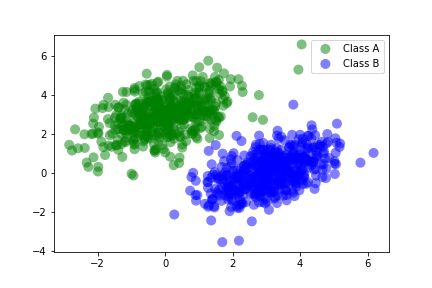
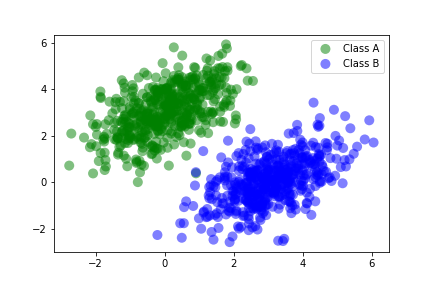
Add section: Generating synthetic data

diff --git a/deep_learning_python/ch3/index.html b/deep_learning_python/ch3/index.html
@@ -19,7 +19,7 @@
   </center>
 
   <br>
-  <p style="margin-bottom: 2ch;text-align: right;font-style: italic;">May 19, 2022</p>
+  <p style="margin-bottom: 2ch;text-align: right;font-style: italic;">May 20, 2022</p>
 
 <p><title>Deep Learning with Python: Chapter 3 - Introduction to Keras and TensorFlow</title></p>
 
@@ -31,25 +31,40 @@
 Articles in this series will sequentially review key concepts, examples, and interesting facts from each chapter of the book.</p>
 
 <p><details>
-    <summary>Table of Contents</summary>
-- <a href="#chapter-3-introduction-to-keras-and-tensorflow">Chapter 3: Introduction to Keras and TensorFlow</a>
-    - <a href="#whats-tensorflow">What's TensorFlow?</a>
-        - <a href="#tensorflow-vs-numpy">TensorFlow vs. NumPy</a>
-        - <a href="#tensorflow-ecosystem">TensorFlow ecosystem</a>
-    - <a href="#whats-keras">What's Keras?</a>
-        - <a href="#keras-and-tensorflow-a-brief-history">Keras and TensorFlow: A brief history</a>
-    - <a href="#setting-up-a-deep-learning-workspace">Setting up a deep learning workspace</a>
-        - <a href="#physical-machine-with-nvidia-gpu">Physical machine with NVIDIA GPU</a>
-        - <a href="#cloud-gpu-instances">Cloud GPU instances</a>
-        - <a href="#google-colab">Google Colab</a>
-    - <a href="#first-steps-with-tensorflow">First steps with TensorFlow</a>
-        - <a href="#constant-tensors-and-variables">Constant tensors and variables</a>
-        - <a href="#a-second-look-at-the-gradient-tape-api">A second look at the Gradient Tape API</a>
-        - <a href="#computing-second-order-gradients">Computing second-order gradients</a>
-    - <a href="#linear-classifier-example-in-pure-tensorflow">Linear classifier example in pure TensorFlow</a>
-        - <a href="#what-is-linear-classification">What is linear classification?</a>
-        - <a href="#generating-synthetic-data">Generating synthetic data</a>
-</details></p>
+    <summary>Table of Contents</summary></p>
+
+<ul>
+<li><a href="#chapter-3-introduction-to-keras-and-tensorflow">Chapter 3: Introduction to Keras and TensorFlow</a>
+<ul>
+<li><a href="#whats-tensorflow">What's TensorFlow?</a>
+<ul>
+<li><a href="#tensorflow-vs-numpy">TensorFlow vs. NumPy</a></li>
+<li><a href="#tensorflow-ecosystem">TensorFlow ecosystem</a></li>
+</ul></li>
+<li><a href="#whats-keras">What's Keras?</a>
+<ul>
+<li><a href="#keras-and-tensorflow-a-brief-history">Keras and TensorFlow: A brief history</a></li>
+</ul></li>
+<li><a href="#setting-up-a-deep-learning-workspace">Setting up a deep learning workspace</a>
+<ul>
+<li><a href="#physical-machine-with-nvidia-gpu">Physical machine with NVIDIA GPU</a></li>
+<li><a href="#cloud-gpu-instances">Cloud GPU instances</a></li>
+<li><a href="#google-colab">Google Colab</a></li>
+</ul></li>
+<li><a href="#first-steps-with-tensorflow">First steps with TensorFlow</a>
+<ul>
+<li><a href="#constant-tensors-and-variables">Constant tensors and variables</a></li>
+<li><a href="#a-second-look-at-the-gradient-tape-api">A second look at the Gradient Tape API</a></li>
+<li><a href="#computing-second-order-gradients">Computing second-order gradients</a></li>
+</ul></li>
+<li><a href="#linear-classifier-example-in-pure-tensorflow">Linear classifier example in pure TensorFlow</a>
+<ul>
+<li><a href="#what-is-linear-classification">What is linear classification?</a></li>
+<li><a href="#generating-synthetic-data">Generating synthetic data</a>
+</details></li>
+</ul></li>
+</ul></li>
+</ul>
 
 <hr />
 
@@ -370,13 +385,15 @@ The line is best fit to separate the data into two classes.</p>
 <p><font style="color:red">TODO: Insert image of a linear classification plot with a line separating the classes</font></p>
 
 <p>This is the basic idea behind linear classification.
-Now let's generate some data and train a linear classifier.</p>
+Now let's generate some data and train a linear classifier.
+All of the code related to this linear classifier can be found on my <a href="https://github.com/nosas/blog/blob/main/deep_learning_python/ch3/code/linear_classifier.py">GitHub</a> as an interactive python file.
+I recommend using VSCode to utilize the interactive python code blocks - similar to Jupyter Notebooks.</p>
 
 <h3 id="generating-synthetic-data">Generating synthetic data</h3>
 
 <p>We need some nicely linear data to train our linear classifier.
 To keep it simple, we'll create two classes of points in a 2D plane and call them class A and class B.
-To keep it more simple, we won't explain all the math behind the data generation - just understand that both classes should be shaped like a cloud and clearly separated.
+To keep it more simple, we won't explain all the math behind the data generation - just understand that both classes should be clearly separated and roughly distributed like a cloud.
 We'll just use the following formula to generate the data:</p>
 
 <div class="codehilite"><pre><span></span><code><span class="n">num_samples_per_class</span> <span class="o">=</span> <span class="mi">500</span>
@@ -390,12 +407,57 @@ We'll just use the following formula to generate the data:</p>
     <span class="n">size</span><span class="o">=</span><span class="n">num_samples_per_class</span><span class="p">)</span>
 </code></pre></div>
 
-<p>The figure below shows the linear data distribution of both classes A and B.</p>
+<p>The figure below shows the linearly-separable data from classes A and B.
+See the following code block to see how we plot the data.</p>
 
 <figure class="center">
     <img src="img/linear_classifier_data.png" style="width:100%;background:white;"/>
     <figcaption>Two classes of synthetic and random points in the 2D plane</figcaption>
 </figure>
+
+<p>Both samples are arrays of shape <code>(500, 2)</code> - meaning there are 500 rows of 2-dimensional data (x and y coordinate points).
+Let's stack both class samples into a single array with shape <code>(1000, 2)</code>.
+Stacking the samples into single array will allow for easier processing later on, such as plotting the data.</p>
+
+<div class="codehilite"><pre><span></span><code><span class="kn">import</span> <span class="nn">matplotlib.pyplot</span> <span class="k">as</span> <span class="nn">plt</span>
+<span class="kn">import</span> <span class="nn">numpy</span> <span class="k">as</span> <span class="nn">np</span>
+
+<span class="c1"># The first 500 samples are from class A, the next 500 samples are from class B</span>
+<span class="n">inputs</span> <span class="o">=</span> <span class="n">np</span><span class="o">.</span><span class="n">vstack</span><span class="p">((</span><span class="n">class_a_samples</span><span class="p">,</span> <span class="n">class_b_samples</span><span class="p">))</span><span class="o">.</span><span class="n">astype</span><span class="p">(</span><span class="n">np</span><span class="o">.</span><span class="n">float32</span><span class="p">)</span>
+<span class="c1"># The first 500 labels are 0 (class A), and the next 500 are 1 (class B)</span>
+<span class="n">labels</span> <span class="o">=</span> <span class="n">np</span><span class="o">.</span><span class="n">vstack</span><span class="p">(</span>
+    <span class="p">(</span>
+        <span class="n">np</span><span class="o">.</span><span class="n">zeros</span><span class="p">((</span><span class="n">num_samples_per_class</span><span class="p">,</span> <span class="mi">1</span><span class="p">),</span> <span class="n">dtype</span><span class="o">=</span><span class="n">np</span><span class="o">.</span><span class="n">float32</span><span class="p">),</span>
+        <span class="n">np</span><span class="o">.</span><span class="n">ones</span><span class="p">((</span><span class="n">num_samples_per_class</span><span class="p">,</span> <span class="mi">1</span><span class="p">),</span> <span class="n">dtype</span><span class="o">=</span><span class="n">np</span><span class="o">.</span><span class="n">float32</span><span class="p">),</span>
+    <span class="p">)</span>
+<span class="p">)</span>
+<span class="n">class_a</span> <span class="o">=</span> <span class="n">inputs</span><span class="p">[:</span><span class="n">num_samples_per_class</span><span class="p">]</span>
+<span class="n">class_b</span> <span class="o">=</span> <span class="n">inputs</span><span class="p">[</span><span class="n">num_samples_per_class</span><span class="p">:]</span>
+
+<span class="c1"># %% Plot the two classes</span>
+<span class="c1"># Class A is represented by green dots, and class B is represented by blue dots,</span>
+<span class="n">plt</span><span class="o">.</span><span class="n">scatter</span><span class="p">(</span>
+    <span class="n">class_a</span><span class="p">[:,</span> <span class="mi">0</span><span class="p">],</span>
+    <span class="n">class_a</span><span class="p">[:,</span> <span class="mi">1</span><span class="p">],</span>
+    <span class="n">c</span><span class="o">=</span><span class="s2">&quot;green&quot;</span><span class="p">,</span>
+    <span class="n">alpha</span><span class="o">=</span><span class="mf">0.50</span><span class="p">,</span>
+    <span class="n">s</span><span class="o">=</span><span class="mi">100</span><span class="p">,</span>
+    <span class="n">label</span><span class="o">=</span><span class="s2">&quot;Class A&quot;</span><span class="p">,</span>
+    <span class="n">edgecolors</span><span class="o">=</span><span class="s2">&quot;none&quot;</span><span class="p">,</span>
+<span class="p">)</span>
+<span class="n">plt</span><span class="o">.</span><span class="n">scatter</span><span class="p">(</span>
+    <span class="n">class_b</span><span class="p">[:,</span> <span class="mi">0</span><span class="p">],</span>
+    <span class="n">class_b</span><span class="p">[:,</span> <span class="mi">1</span><span class="p">],</span>
+    <span class="n">c</span><span class="o">=</span><span class="s2">&quot;blue&quot;</span><span class="p">,</span>
+    <span class="n">alpha</span><span class="o">=</span><span class="mf">0.50</span><span class="p">,</span>
+    <span class="n">s</span><span class="o">=</span><span class="mi">100</span><span class="p">,</span>
+    <span class="n">label</span><span class="o">=</span><span class="s2">&quot;Class B&quot;</span><span class="p">,</span>
+    <span class="n">edgecolors</span><span class="o">=</span><span class="s2">&quot;none&quot;</span><span class="p">,</span>
+<span class="p">)</span>
+<span class="n">plt</span><span class="o">.</span><span class="n">legend</span><span class="p">()</span>
+<span class="n">plt</span><span class="o">.</span><span class="n">savefig</span><span class="p">(</span><span class="s2">&quot;../img/linear_classifier_data.png&quot;</span><span class="p">,</span> <span class="n">transparent</span><span class="o">=</span><span class="kc">False</span><span class="p">)</span>
+<span class="n">plt</span><span class="o">.</span><span class="n">show</span><span class="p">()</span>
+</code></pre></div>
 
 </body>
 </html>

diff --git a/deep_learning_python/ch3/article.md b/deep_learning_python/ch3/article.md
@@ -10,6 +10,7 @@ Articles in this series will sequentially review key concepts, examples, and int
 
 <details>
     <summary>Table of Contents</summary>
+
 - [Chapter 3: Introduction to Keras and TensorFlow](#chapter-3-introduction-to-keras-and-tensorflow)
     - [What's TensorFlow?](#whats-tensorflow)
         - [TensorFlow vs. NumPy](#tensorflow-vs-numpy)
@@ -339,12 +340,14 @@ The line is best fit to separate the data into two classes.
 
 This is the basic idea behind linear classification.
 Now let's generate some data and train a linear classifier.
+All of the code related to this linear classifier can be found on my [GitHub](https://github.com/nosas/blog/blob/main/deep_learning_python/ch3/code/linear_classifier.py) as an interactive python file.
+I recommend using VSCode to utilize the interactive python code blocks - similar to Jupyter Notebooks.
 
 ### Generating synthetic data
 
 We need some nicely linear data to train our linear classifier.
 To keep it simple, we'll create two classes of points in a 2D plane and call them class A and class B.
-To keep it more simple, we won't explain all the math behind the data generation - just understand that both classes should be shaped like a cloud and clearly separated.
+To keep it more simple, we won't explain all the math behind the data generation - just understand that both classes should be clearly separated and roughly distributed like a cloud.
 We'll just use the following formula to generate the data:
 
 ```python
@@ -359,9 +362,55 @@ class_b_samples = np.random.multivariate_normal(
     size=num_samples_per_class)
 ```
 
-The figure below shows the linear data distribution of both classes A and B.
+The figure below shows the linearly-separable data from classes A and B.
+See the following code block to see how we plot the data.
 
 <figure class="center">
     <img src="img/linear_classifier_data.png" style="width:100%;background:white;"/>
     <figcaption>Two classes of synthetic and random points in the 2D plane</figcaption>
 </figure>
+
+Both samples are arrays of shape `(500, 2)` - meaning there are 500 rows of 2-dimensional data (x and y coordinate points).
+Let's stack both class samples into a single array with shape `(1000, 2)`.
+Stacking the samples into single array will allow for easier processing later on, such as plotting the data.
+
+```python
+import matplotlib.pyplot as plt
+import numpy as np
+
+# The first 500 samples are from class A, the next 500 samples are from class B
+inputs = np.vstack((class_a_samples, class_b_samples)).astype(np.float32)
+# The first 500 labels are 0 (class A), and the next 500 are 1 (class B)
+labels = np.vstack(
+    (
+        np.zeros((num_samples_per_class, 1), dtype=np.float32),
+        np.ones((num_samples_per_class, 1), dtype=np.float32),
+    )
+)
+class_a = inputs[:num_samples_per_class]
+class_b = inputs[num_samples_per_class:]
+
+# %% Plot the two classes
+# Class A is represented by green dots, and class B is represented by blue dots,
+plt.scatter(
+    class_a[:, 0],
+    class_a[:, 1],
+    c="green",
+    alpha=0.50,
+    s=100,
+    label="Class A",
+    edgecolors="none",
+)
+plt.scatter(
+    class_b[:, 0],
+    class_b[:, 1],
+    c="blue",
+    alpha=0.50,
+    s=100,
+    label="Class B",
+    edgecolors="none",
+)
+plt.legend()
+plt.savefig("../img/linear_classifier_data.png", transparent=False)
+plt.show()
+```
